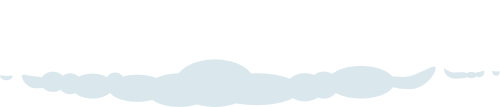
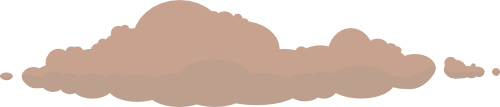
Ajustes en arboles y shieldBar

diff --git a/ProtectTheTown/src/com/lucianosimo/protectthetown/scene/GameScene.java b/ProtectTheTown/src/com/lucianosimo/protectthetown/scene/GameScene.java
@@ -5,6 +5,7 @@ import java.util.Random;
 
 import org.andengine.engine.camera.hud.HUD;
 import org.andengine.engine.handler.IUpdateHandler;
+import org.andengine.engine.handler.physics.PhysicsHandler;
 import org.andengine.entity.IEntity;
 import org.andengine.entity.modifier.DelayModifier;
 import org.andengine.entity.modifier.IEntityModifier.IEntityModifierListener;
@@ -55,7 +56,6 @@ import com.lucianosimo.protectthetown.object.Shield;
 import com.lucianosimo.protectthetown.object.Shot;
 import com.lucianosimo.protectthetown.object.SmallHouse;
 import com.lucianosimo.protectthetown.object.SmallRock;
-import com.lucianosimo.protectthetown.object.Tree;
 import com.lucianosimo.protectthetown.object.Ufo;
 import com.lucianosimo.protectthetown.pools.ExplosionPool;
 import com.lucianosimo.protectthetown.pools.SmallExplosionPool;
@@ -120,7 +120,7 @@ public class GameScene extends BaseScene{
 	
 	//Rectangle
 	private Rectangle fade;
-	private Rectangle shieldBarBackground;
+	//private Rectangle shieldBarBackground;
 	private Rectangle shieldBar;
 	
 	//Countdown
@@ -181,8 +181,8 @@ public class GameScene extends BaseScene{
 	
 	private static final int ROCK_MAX_RANDOM_X = 840;
 	private static final int ROCK_MIN_RANDOM_X = 400;
-	private static final int BOX_MAX_RANDOM_X = 1000;
-	private static final int BOX_MIN_RANDOM_X = 100;
+	//private static final int BOX_MAX_RANDOM_X = 1000;
+	//private static final int BOX_MIN_RANDOM_X = 100;
 	
 	private static final int LARGE_ROCK_SCORE = 100;
 	private static final int ROCK_SCORE = 250;
@@ -290,6 +290,9 @@ public class GameScene extends BaseScene{
 					if (!largeRock1.getLargeRockBody().isActive()) {
 						largeRock1.getLargeRockBody().setActive(true);
 					}					
+					/*if (!shieldBox.getShieldBody().isActive()) {
+						shieldBox.getShieldBody().setActive(true);
+					}*/
 				}
 				
 				if ((updates > 2000) && (updates % 250) == 0 && availablePause) {
@@ -356,9 +359,9 @@ public class GameScene extends BaseScene{
 				
 				if (domeActivated && availablePause) {
 					if (shieldBar.getWidth() > 0) {
-						shieldBar.setSize(shieldBar.getWidth() - pSecondsElapsed * 40, shieldBar.getHeight());
+						shieldBar.setSize(shieldBar.getWidth() - pSecondsElapsed * 18.5f, shieldBar.getHeight());
 					}
-					shieldBar.setPosition((screenWidth/2 + screenWidth/4 - 350) + shieldBar.getWidth() / 2, shieldBar.getY());
+					shieldBar.setPosition((screenWidth/2 + screenWidth/4 - 190) + shieldBar.getWidth() / 2, shieldBar.getY());
 				}
 			}
 		});
@@ -959,9 +962,12 @@ public class GameScene extends BaseScene{
 	 */
 	private void regenerateBoxes(Body boxBody) {
 		Random rand = new Random();
-		final int x = rand.nextInt(BOX_MAX_RANDOM_X - BOX_MIN_RANDOM_X + 1) + BOX_MIN_RANDOM_X;
 		
-		boxBody.setTransform(x / PhysicsConstants.PIXEL_TO_METER_RATIO_DEFAULT, (ROCK_INITIAL_Y + 250) / PhysicsConstants.PIXEL_TO_METER_RATIO_DEFAULT, boxBody.getAngle());
+		//final int x = rand.nextInt(BOX_MAX_RANDOM_X - BOX_MIN_RANDOM_X + 1) + BOX_MIN_RANDOM_X;
+		int positionIndex = rand.nextInt(4);
+		int[] box_position = {100, 400, 800, 1200};
+		
+		boxBody.setTransform(box_position[positionIndex] / PhysicsConstants.PIXEL_TO_METER_RATIO_DEFAULT, (ROCK_INITIAL_Y + 250) / PhysicsConstants.PIXEL_TO_METER_RATIO_DEFAULT, boxBody.getAngle());
 	}
 	
 	/*
@@ -1053,7 +1059,7 @@ public class GameScene extends BaseScene{
 		int largeHouseInitialX = 600;
 		int smallHouseInitialY= 200;
 		int mediumHouseInitialY = 225;
-		int largeHouseInitialY = 250;
+		int largeHouseInitialY = 225;
 		
 		final int healthBarWidth = 150;
 		final int healthBarHeight = 15;
@@ -1065,7 +1071,10 @@ public class GameScene extends BaseScene{
 		int whichLargeHouse = rand.nextInt(2) + 1;
 		int smallOffsetY = rand.nextInt(100) + 1;
 		int mediumOffsetY = rand.nextInt(100) + 1;
-		int largeOffsetY = rand.nextInt(100) + 1;
+		int largeOffsetY = rand.nextInt(25) + 1;
+		/*int smallHouseOffsetX = rand.nextInt(101) - 50;
+		int mediumHouseOffsetX = rand.nextInt(101) - 50;
+		int largeHouseOffsetX = rand.nextInt(101) - 50;*/
 		
 		smallHouseInitialY = smallHouseInitialY - smallOffsetY;
 		mediumHouseInitialY = mediumHouseInitialY - mediumOffsetY;
@@ -1261,12 +1270,27 @@ public class GameScene extends BaseScene{
 	
 	private void createDecoration() {
 		//n = rand.nextInt(max - min + 1) + min;
-		Tree[] trees = new Tree[6];
-		int[] trees_positions = {80, 300, 400, 500, 880, 1200};
-		ITextureRegion region = resourcesManager.game_trees_1_region;
+		Random rand = new Random();
 		
-		for (int i = 0; i < 6; i++) {
-			switch (i) {
+		int x = rand.nextInt(1281) + 1;
+		int y = rand.nextInt(321) + 400;
+		int cloudSpeed = -(rand.nextInt(11) + 35);
+		int farCloudSpeed = -(rand.nextInt(11) + 10);
+		int numberOfTrees = 6;
+		int treeHeight = 75;
+		
+		//Tree[] trees = new Tree[6];
+		int[] trees_positions = {80, 350, 425, 750, 850, 1200};
+		ITextureRegion region = resourcesManager.game_trees_1_region;
+		Sprite treeSprite = new Sprite(0, 0, region.deepCopy(), vbom);
+		
+		for (int i = 0; i < numberOfTrees; i++) {
+			
+			int tree = rand.nextInt(6);
+			int treeOffsetX = rand.nextInt(51) - 25;
+			int treeOffsetY = rand.nextInt(101);
+			
+			switch (tree) {
 			case 0:
 				region = resourcesManager.game_trees_1_region;
 				break;
@@ -1288,9 +1312,75 @@ public class GameScene extends BaseScene{
 			default:
 				break;
 			}
-			trees[i] = new Tree(trees_positions[i], 500, vbom, camera, physicsWorld, region);
-			GameScene.this.attachChild(trees[i]);
+			treeSprite = new Sprite(trees_positions[i] + treeOffsetX, treeHeight + treeOffsetY, region.deepCopy(), vbom);
+			GameScene.this.attachChild(treeSprite);
+			//trees[i] = new Tree(trees_positions[i], 500, vbom, camera, physicsWorld, region);
+			//GameScene.this.attachChild(trees[i]);
 		}
+		
+			Sprite cloud1 = new Sprite(x, y, resourcesManager.game_cloud_1_region, vbom) {
+				protected void onManagedUpdate(float pSecondsElapsed) {
+					super.onManagedUpdate(pSecondsElapsed);
+					if (this.getX() < -200) {
+						this.setPosition(1480, this.getY());
+					}
+				};
+			};
+			PhysicsHandler handler = new PhysicsHandler(cloud1);
+			cloud1.registerUpdateHandler(handler);
+			handler.setVelocity(cloudSpeed, 0);
+			
+			x = rand.nextInt(1281) + 1;
+			y = rand.nextInt(321) + 400;
+			cloudSpeed = -(rand.nextInt(11) + 35);
+			
+			Sprite cloud2 = new Sprite(x, y, resourcesManager.game_cloud_2_region, vbom) {
+				protected void onManagedUpdate(float pSecondsElapsed) {
+					super.onManagedUpdate(pSecondsElapsed);
+					if (this.getX() < -200) {
+						this.setPosition(1480, this.getY());
+					}
+				};
+			};
+			PhysicsHandler handler2 = new PhysicsHandler(cloud2);
+			cloud1.registerUpdateHandler(handler2);
+			handler2.setVelocity(cloudSpeed, 0);
+			
+			x = rand.nextInt(1281) + 1;
+			y = rand.nextInt(321) + 400;
+			
+			Sprite farCloud1 = new Sprite(x, y, resourcesManager.game_far_cloud_1_region, vbom) {
+				protected void onManagedUpdate(float pSecondsElapsed) {
+					super.onManagedUpdate(pSecondsElapsed);
+					if (this.getX() < -200) {
+						this.setPosition(1480, this.getY());
+					}
+				};
+			};
+			PhysicsHandler handler4 = new PhysicsHandler(farCloud1);
+			farCloud1.registerUpdateHandler(handler4);
+			handler4.setVelocity(farCloudSpeed, 0);
+			
+			x = rand.nextInt(1281) + 1;
+			y = rand.nextInt(321) + 400;
+			farCloudSpeed = -(rand.nextInt(11) + 10);
+			
+			Sprite farCloud2 = new Sprite(x, y, resourcesManager.game_far_cloud_2_region, vbom) {
+				protected void onManagedUpdate(float pSecondsElapsed) {
+					super.onManagedUpdate(pSecondsElapsed);
+					if (this.getX() < -200) {
+						this.setPosition(1480, this.getY());
+					}
+				};
+			};
+			PhysicsHandler handler5 = new PhysicsHandler(farCloud2);
+			farCloud2.registerUpdateHandler(handler5);
+			handler5.setVelocity(farCloudSpeed, 0);
+			
+			GameScene.this.attachChild(cloud1);
+			GameScene.this.attachChild(cloud2);
+			GameScene.this.attachChild(farCloud1);
+			GameScene.this.attachChild(farCloud2);
 	}
 	
 	private void setRockDirection(float x, Body body, float yVel) {
@@ -1465,7 +1555,7 @@ public class GameScene extends BaseScene{
 			}
 		};
 		
-	    retryButton = new Sprite(270, 50, resourcesManager.game_retry_button_region, vbom){
+	    retryButton = new Sprite(270, 25, resourcesManager.game_retry_button_region, vbom){
 	    	public boolean onAreaTouched(TouchEvent pSceneTouchEvent, float pTouchAreaLocalX, float pTouchAreaLocalY) {
 	    		if (pSceneTouchEvent.isActionDown()) {
 	    			gameHud.dispose();
@@ -1477,7 +1567,7 @@ public class GameScene extends BaseScene{
 	    		return true;
 	    	};
 	    };
-	    quitButton = new Sprite(0, 50, resourcesManager.game_quit_button_region, vbom){
+	    quitButton = new Sprite(0, 25, resourcesManager.game_quit_button_region, vbom){
 	    	public boolean onAreaTouched(TouchEvent pSceneTouchEvent, float pTouchAreaLocalX, float pTouchAreaLocalY) {
 	    		if (pSceneTouchEvent.isActionDown()) {
 	    			gameHud.dispose();
@@ -1489,7 +1579,7 @@ public class GameScene extends BaseScene{
 	    		return true;
 	    	};
 	    };
-	    resumeButton = new Sprite(550, 50, resourcesManager.game_resume_button_region, vbom){
+	    resumeButton = new Sprite(550, 25, resourcesManager.game_resume_button_region, vbom){
 	    	public boolean onAreaTouched(TouchEvent pSceneTouchEvent, float pTouchAreaLocalX, float pTouchAreaLocalY) {
 	    		if (pSceneTouchEvent.isActionDown()) {
 	    			availablePause = true;
@@ -1558,7 +1648,7 @@ public class GameScene extends BaseScene{
 		finalScoreText.setColor(Color.BLACK_ARGB_PACKED_INT);
 		finalScoreText.setText(""+score);
 		
-		retryButton = new Sprite(550, 50, resourcesManager.game_retry_button_region, vbom){
+		retryButton = new Sprite(550, 25, resourcesManager.game_retry_button_region, vbom){
 	    	public boolean onAreaTouched(TouchEvent pSceneTouchEvent, float pTouchAreaLocalX, float pTouchAreaLocalY) {
 	    		if (pSceneTouchEvent.isActionDown()) {
 	    			gameHud.dispose();
@@ -1570,7 +1660,7 @@ public class GameScene extends BaseScene{
 	    		return true;
 	    	};
 	    };
-	    submitScoreButton = new Sprite(270, 50, resourcesManager.game_submit_button_region, vbom){
+	    submitScoreButton = new Sprite(270, 25, resourcesManager.game_submit_button_region, vbom){
 	    	public boolean onAreaTouched(TouchEvent pSceneTouchEvent, float pTouchAreaLocalX, float pTouchAreaLocalY) {
 	    		if (pSceneTouchEvent.isActionDown()) {
 	    			activity.submitScore(score);
@@ -1579,7 +1669,7 @@ public class GameScene extends BaseScene{
 	    	};
 	    };
 
-	    quitButton = new Sprite(0, 50, resourcesManager.game_quit_button_region, vbom){
+	    quitButton = new Sprite(0, 25, resourcesManager.game_quit_button_region, vbom){
 	    	public boolean onAreaTouched(TouchEvent pSceneTouchEvent, float pTouchAreaLocalX, float pTouchAreaLocalY) {
 	    		if (pSceneTouchEvent.isActionDown()) {
 	    			gameHud.dispose();
@@ -1591,7 +1681,7 @@ public class GameScene extends BaseScene{
 	    		return true;
 	    	};
 	    };
-	    twitterButton = new Sprite(380 + 47, 155 + 46, resourcesManager.game_twitter_button_region, vbom) {
+	    twitterButton = new Sprite(450, 195, resourcesManager.game_twitter_button_region, vbom) {
 	    	public boolean onAreaTouched(TouchEvent pSceneTouchEvent, float pTouchAreaLocalX, float pTouchAreaLocalY) {
 	    		if (pSceneTouchEvent.isActionDown()) {
 	    			Intent shareIntent = new Intent();
@@ -1694,8 +1784,12 @@ public class GameScene extends BaseScene{
 	
 	private void createBombBox() {
 		Random rand = new Random();
-		final int x = rand.nextInt(BOX_MAX_RANDOM_X - BOX_MIN_RANDOM_X + 1) + BOX_MIN_RANDOM_X;
-		bombBox = new Bomb(x, BOX_INITIAL_Y, vbom, camera, physicsWorld) {
+		
+		//final int x = rand.nextInt(BOX_MAX_RANDOM_X - BOX_MIN_RANDOM_X + 1) + BOX_MIN_RANDOM_X;
+		int positionIndex = rand.nextInt(4);
+		int[] box_position = {100, 400, 800, 1200};
+		
+		bombBox = new Bomb(box_position[positionIndex], BOX_INITIAL_Y, vbom, camera, physicsWorld) {
 			@Override
 			public boolean onAreaTouched(TouchEvent pSceneTouchEvent, float pTouchAreaLocalX, float pTouchAreaLocalY) {
 				if (pSceneTouchEvent.isActionDown()) {
@@ -1735,8 +1829,12 @@ public class GameScene extends BaseScene{
 	
 	private void createRepairBox() {
 		Random rand = new Random();
-		final int x = rand.nextInt(BOX_MAX_RANDOM_X - BOX_MIN_RANDOM_X + 1) + BOX_MIN_RANDOM_X;
-		repairBox = new Repair(x, BOX_INITIAL_Y, vbom, camera, physicsWorld) {
+		
+		//final int x = rand.nextInt(BOX_MAX_RANDOM_X - BOX_MIN_RANDOM_X + 1) + BOX_MIN_RANDOM_X;
+		int positionIndex = rand.nextInt(4);
+		int[] box_position = {100, 400, 800, 1200};
+		
+		repairBox = new Repair(box_position[positionIndex], BOX_INITIAL_Y, vbom, camera, physicsWorld) {
 			@Override
 			public boolean onAreaTouched(TouchEvent pSceneTouchEvent, float pTouchAreaLocalX, float pTouchAreaLocalY) {
 				if (pSceneTouchEvent.isActionDown()) {
@@ -1772,8 +1870,12 @@ public class GameScene extends BaseScene{
 	
 	private void createShieldBox() {
 		Random rand = new Random();
-		final int x = rand.nextInt(BOX_MAX_RANDOM_X - BOX_MIN_RANDOM_X + 1) + BOX_MIN_RANDOM_X;
-		shieldBox = new Shield(x, BOX_INITIAL_Y, vbom, camera, physicsWorld) {
+		
+		//final int x = rand.nextInt(BOX_MAX_RANDOM_X - BOX_MIN_RANDOM_X + 1) + BOX_MIN_RANDOM_X;
+		int positionIndex = rand.nextInt(4);
+		int[] box_position = {100, 400, 800, 1200};
+		
+		shieldBox = new Shield(box_position[positionIndex], BOX_INITIAL_Y, vbom, camera, physicsWorld) {
 			@Override
 			public boolean onAreaTouched(TouchEvent pSceneTouchEvent, float pTouchAreaLocalX, float pTouchAreaLocalY) {
 				if (pSceneTouchEvent.isActionDown()) {
@@ -1790,10 +1892,10 @@ public class GameScene extends BaseScene{
 									
 									@Override
 									public void onModifierStarted(IModifier<IEntity> pModifier, IEntity pItem) {
-										dome.setPosition(screenWidth/2, 100);
-										shieldBarBackground.setWidth(400);
-										shieldBar.setWidth(400);
-										shieldBarBackground.setVisible(true);
+										dome.setPosition(screenWidth/2, 175);
+										//shieldBarBackground.setWidth(185);
+										shieldBar.setWidth(185);
+										//shieldBarBackground.setVisible(true);
 										shieldBar.setVisible(true);
 										shieldBarFrame.setVisible(true);
 										shieldBarLogo.setVisible(true);
@@ -1804,7 +1906,7 @@ public class GameScene extends BaseScene{
 									public void onModifierFinished(IModifier<IEntity> pModifier, IEntity pItem) {
 										resourcesManager.shield.stop();
 										dome.setPosition(-1500, -1500);
-										shieldBarBackground.setVisible(false);
+										//shieldBarBackground.setVisible(false);
 										shieldBar.setVisible(false);
 										shieldBarFrame.setVisible(false);
 										shieldBarLogo.setVisible(false);
@@ -1826,27 +1928,27 @@ public class GameScene extends BaseScene{
 	}
 	
 	private void createDome() {
-		float shieldBarWidth = 400;
-		float shieldBarHeight = 25;
+		float shieldBarWidth = 185;
+		float shieldBarHeight = 20;
 		
-		shieldBarBackground = new Rectangle(screenWidth/2 + screenWidth/4 - 150, 665, shieldBarWidth, shieldBarHeight, vbom);
-		shieldBar = new Rectangle(screenWidth/2 + screenWidth/4 - 150, 665, shieldBarWidth, shieldBarHeight, vbom);
-		shieldBarFrame = new Sprite(screenWidth/2 + screenWidth/4 - 150, 665, resourcesManager.game_shield_bar_frame_region, vbom);
-		shieldBarLogo = new Sprite(screenWidth/2 - 70, 670, resourcesManager.game_shield_bar_logo_region, vbom);
+		//shieldBarBackground = new Rectangle(screenWidth/2 + screenWidth/4 - 100, 665, shieldBarWidth, shieldBarHeight, vbom);
+		shieldBar = new Rectangle(screenWidth/2 + screenWidth/4 - 100, 670, shieldBarWidth, shieldBarHeight, vbom);
+		shieldBarFrame = new Sprite(screenWidth/2 + screenWidth/4 - 100, 670, resourcesManager.game_shield_bar_frame_region, vbom);
+		shieldBarLogo = new Sprite(screenWidth/2 + 150 - 70, 670, resourcesManager.game_shield_bar_logo_region, vbom);
 		
 		dome = new Sprite(-1500, 1500, resourcesManager.game_dome_region, vbom);
 		
-		shieldBarBackground.setColor(Color.WHITE);
-		shieldBar.setColor(0.259f, 0.541f, 0.78f);
+		//shieldBarBackground.setColor(Color.WHITE);
+		shieldBar.setColor(0.314f, 0.157f, 0f);
 		
-		shieldBarBackground.setVisible(false);
+		//shieldBarBackground.setVisible(false);
 		shieldBar.setVisible(false);
 		shieldBarFrame.setVisible(false);
 		shieldBarLogo.setVisible(false);
 		
-		gameHud.attachChild(shieldBarBackground);
-		gameHud.attachChild(shieldBar);
+		//gameHud.attachChild(shieldBarBackground);
 		gameHud.attachChild(shieldBarFrame);
+		gameHud.attachChild(shieldBar);
 		gameHud.attachChild(shieldBarLogo);
 		GameScene.this.attachChild(dome);
 	}
